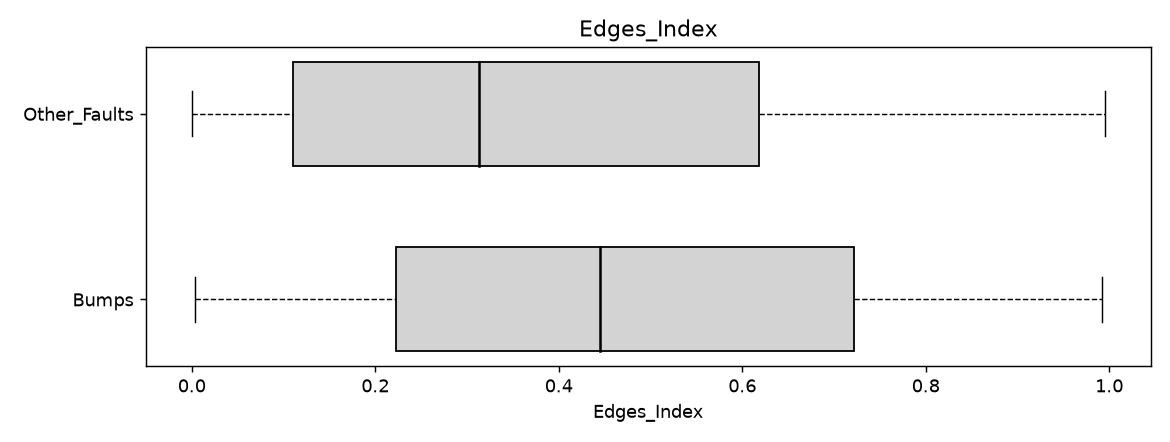
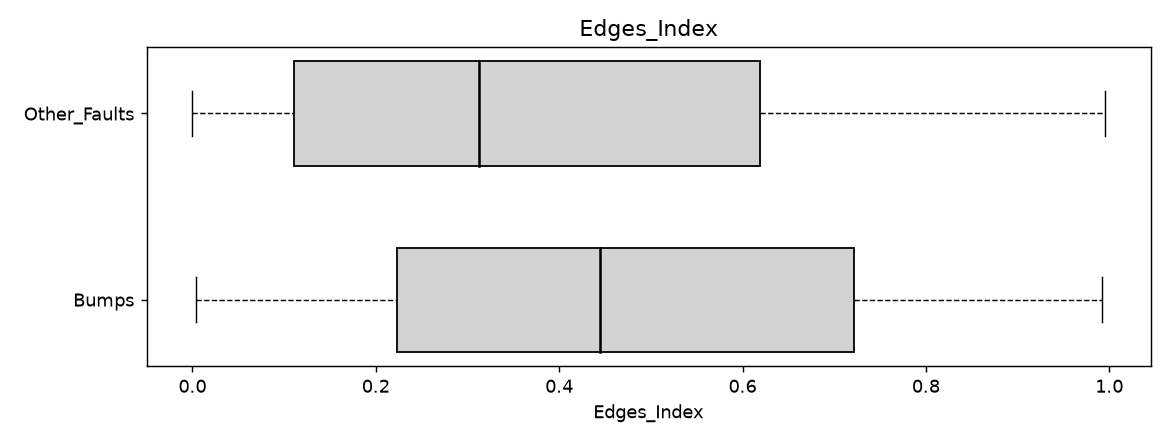
Renewed outliers

diff --git a/Task_1/isskirtys.py b/Task_1/isskirtys.py
@@ -1,22 +1,25 @@
+import os
 import pandas as pd
 import matplotlib.pyplot as plt
 
 FILE = 'A27_be_loginiu_klaidu.csv'
 CLASSES = ['Bumps', 'Other_Faults']
 
-FEATURES = ['Log_X_Index', 'Log_Y_Index', 'Empty_Index', 'Square_Index',
-            'Length_of_Conveyer', 'Steel_Plate_Thickness', 'Edges_Index',
-            'Orientation_Index', 'LogOfAreas', 'Luminosity_Index']
-
-BOUNDED_FEATURES = ['Edges_Index', 'Empty_Index', 'Square_Index',
-                     'Orientation_Index', 'Luminosity_Index']
-
-UNBOUNDED_FEATURES = [f for f in FEATURES if f not in BOUNDED_FEATURES]
+FEATURES = ['X_Minimum', 'X_Maximum', 'Y_Minimum', 'Y_Maximum', 'Pixels_Areas',
+            'X_Perimeter', 'Y_Perimeter', 'Sum_of_Luminosity', 'Minimum_of_Luminosity',
+            'Maximum_of_Luminosity', 'Length_of_Conveyer', 'Steel_Plate_Thickness',
+            'Edges_Index', 'Empty_Index', 'Square_Index', 'Outside_X_Index',
+            'Edges_X_Index', 'Edges_Y_Index', 'Outside_Global_Index', 'LogOfAreas',
+            'Log_X_Index', 'Log_Y_Index', 'Orientation_Index', 'Luminosity_Index',
+            'SigmoidOfAreas']
 
 MILD_K = 1.5
 EXTREME_K = 3.0
+VERY_EXTREME_K = 10.0
+SKEW_THRESHOLD = 5.0
 
 CHARTS_DIR = 'grafikai_isskirtys'
+CHARTS_DIR_SVARUS = 'grafikai_be_isskirciu'
 
 df = pd.read_csv(FILE)
 df.columns = df.columns.str.strip()
@@ -95,11 +98,35 @@ def braizyti_grafika(data: pd.DataFrame, col: str, filename: str):
     plt.close(fig)
 
 
+def rasti_ilgauodegius_pozymius(data: pd.DataFrame):
+    skew_per_feature = {col: data[col].skew() for col in FEATURES}
+    ilgauodegiai = [col for col, skew in skew_per_feature.items() if abs(skew) > SKEW_THRESHOLD]
+    print('Ilgauodegiai požymiai (skew > {:.0f}): {}'.format(SKEW_THRESHOLD, ilgauodegiai))
+    return ilgauodegiai
+
+
+def virsija_griezta_tvora(part: pd.DataFrame, col: str):
+    q1, q3 = part[col].quantile([0.25, 0.75])
+    iqr = q3 - q1
+    zema, aukšta = q1 - VERY_EXTREME_K * iqr, q3 + VERY_EXTREME_K * iqr
+    return (part[col] < zema) | (part[col] > aukšta)
+
+
+def rasti_virsijancias_eilutes(data: pd.DataFrame, pozymiai: list):
+    virsija = pd.Series(False, index=data.index)
+
+    for col in pozymiai:
+        for kl in CLASSES:
+            part = data[data['class'] == kl]
+            mask = virsija_griezta_tvora(part, col)
+            virsija.loc[mask[mask].index] = True
+
+    return virsija
+
+
 def export_table_csv(table, filename):
     table.to_csv(filename + '.csv', index=False, float_format='%.4f')
 
-
-import os
 
 os.makedirs(CHARTS_DIR, exist_ok=True)
 
@@ -108,3 +135,15 @@ export_table_csv(ataskaita, 'isskirciu_ataskaita')
 
 for col in FEATURES:
     braizyti_grafika(df, col, os.path.join(CHARTS_DIR, f'{col}.png'))
+
+ilgauodegiai = rasti_ilgauodegius_pozymius(df)
+virsijancios_eilutes = rasti_virsijancias_eilutes(df, ilgauodegiai)
+print(f'Pašalinta eilučių (virš {VERY_EXTREME_K:.0f}xIQR tvoros ilgauodegiuose požymiuose): '
+      f'{virsijancios_eilutes.sum()} iš {len(df)}')
+
+df_svarus = df[~virsijancios_eilutes].reset_index(drop=True)
+df_svarus.to_csv('A27_be_virsutiniu_isskirciu.csv', index=False)
+
+os.makedirs(CHARTS_DIR_SVARUS, exist_ok=True)
+for col in FEATURES:
+    braizyti_grafika(df_svarus, col, os.path.join(CHARTS_DIR_SVARUS, f'{col}.png'))
